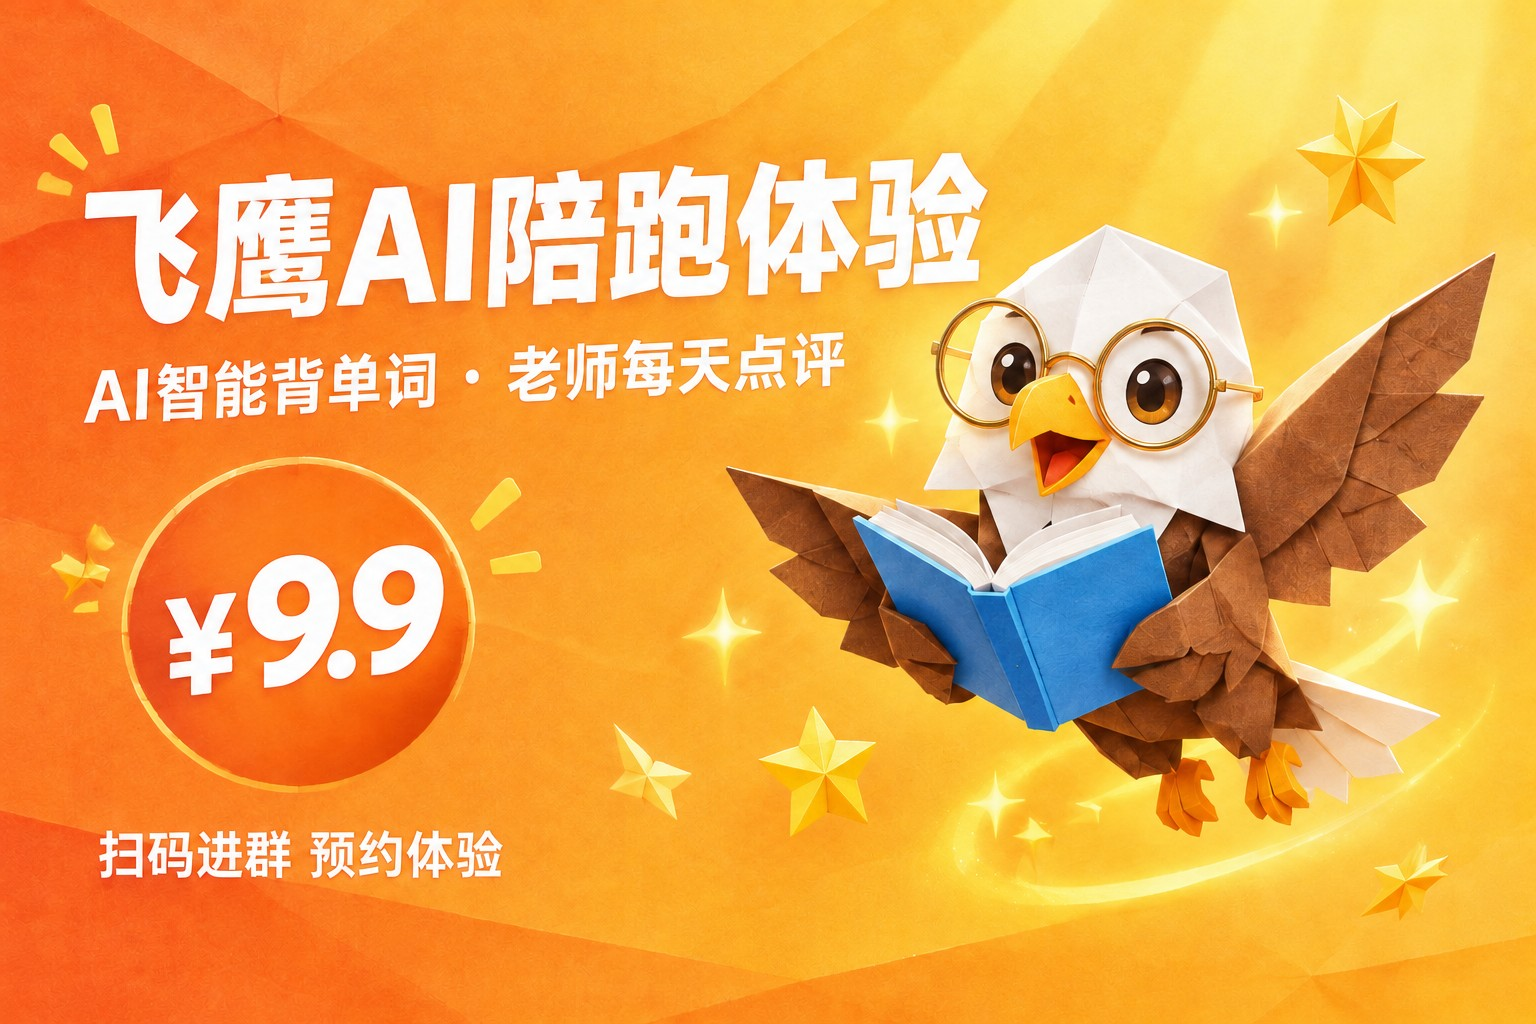
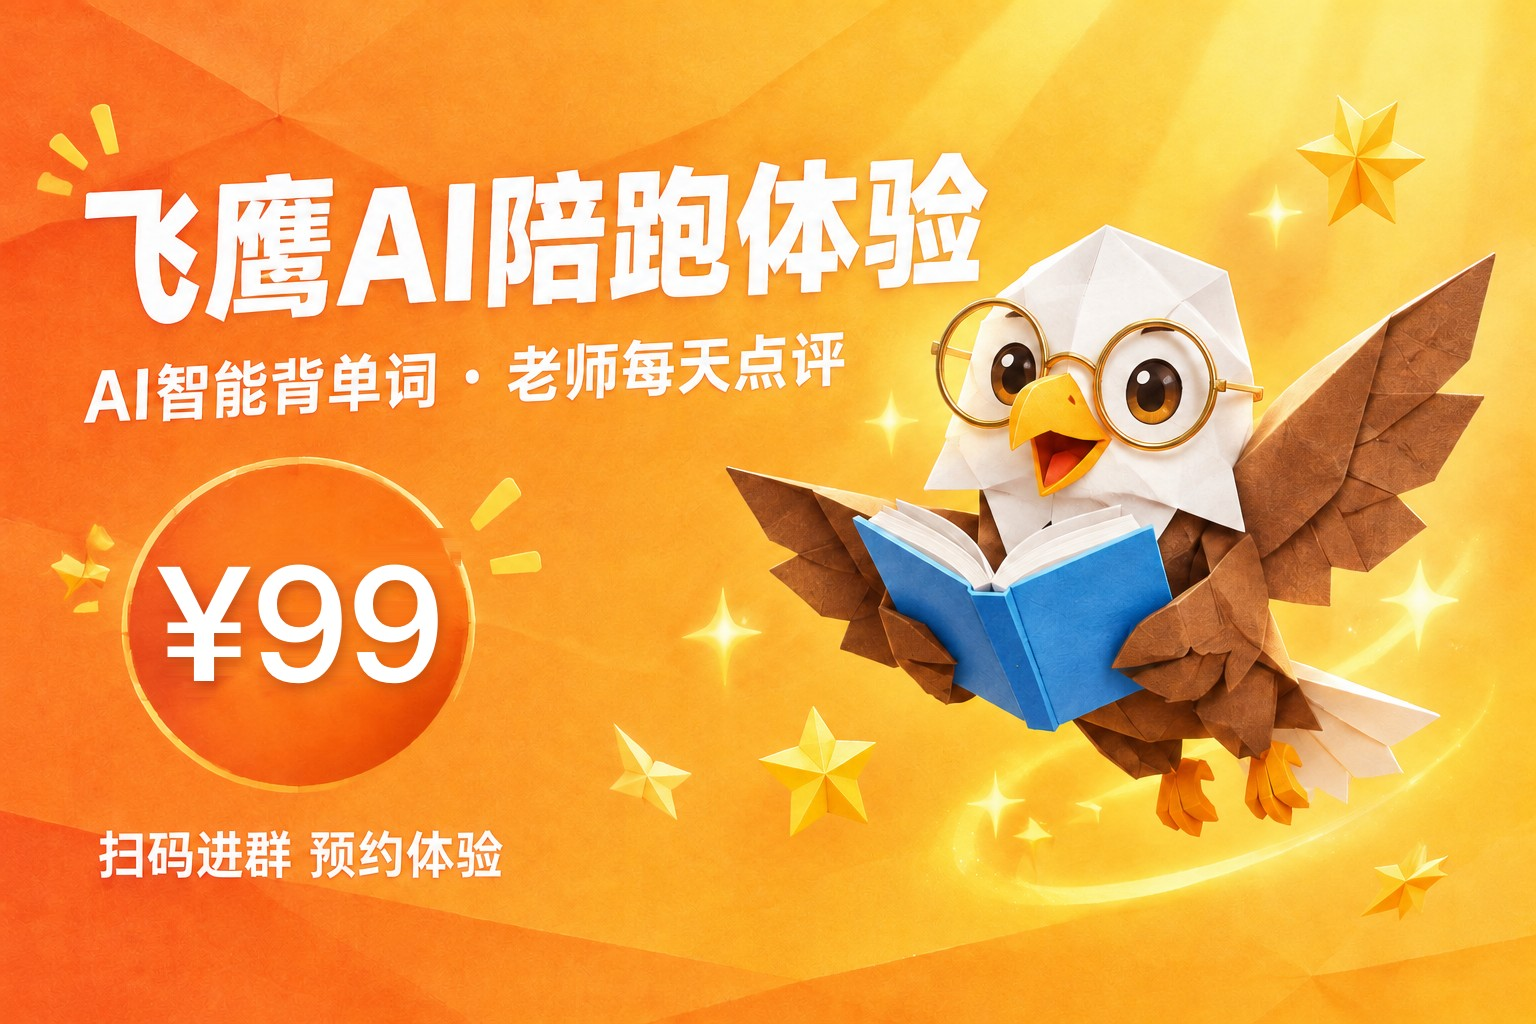
feat(地推体验卡): 卡面模板加到 36 套,按风格筛 + 编号,名字条按模板避开文字
- 新增 16 套模板(t21-t36);出图中转 503,其余 14 套等恢复后补
- 选模板弹窗按风格筛(经典/清新/学习/冒险/四季/节日国风/深色),每套带编号
- 正面名字条位置按模板定(OCR 文字框求交,t03/t32 挪到一边)
- 白框扫描逐级放宽阈值(带纸纹的白框),框内无暗点才算
- t03 卡面价格一直是 ¥9.9,改成 ¥99

Changed region(s): [[0.0938, 0.5312, 0.3125, 0.6875]]

diff --git a/frontend/src/data/promoTemplates.ts b/frontend/src/data/promoTemplates.ts
@@ -1,38 +1,63 @@
 /**
- * 体验卡卡面模板(20 套,2026-10-23)—— 图在 public/promo-card/tpl/{id}_front.jpg / _back.jpg / _thumb.jpg
+ * 体验卡卡面模板(36 套: 10-23 先出 20 套,10-24 加到 36 套)—— 图在 public/promo-card/tpl/{id}_front.jpg / _back.jpg / _thumb.jpg
  *
  * id 与后端 services/promo.TEMPLATE_IDS 同一组(tests/test_promo.py 解析本文件锁住两边一致)。
  * box = 背面底图里那个空白方框(原图 1536×1024 坐标),二维码、老师名字电话、卡号画在框里。
  * **框的位置是对每张底图逐像素扫出来的,换图必须重扫**,否则二维码会压到框外;
  * utils/promoPrint 画之前会检查框里是不是白的,不是就报错不出图。
+ * group = 选模板时的风格筛选(几十套一屏翻不完)。strip = 正面底部名字条放哪边(不写 = 居中;
+ * 居中会压到模板自己文字的那几套挪到 l / r,判据是 OCR 文字框与名字条求交)。
  */
+export const TEMPLATE_GROUPS = ['经典', '清新', '学习', '冒险', '四季', '节日国风', '深色'] as const;
+export type TemplateGroup = (typeof TEMPLATE_GROUPS)[number];
+
 export interface PromoTemplate {
   id: string;
+  /** 给人看的编号,跟印刷厂、跟销售说「用第几套」 */
+  no: number;
   name: string;
+  group: TemplateGroup;
+  strip?: 'l' | 'r';
   box: { l: number; t: number; r: number; b: number };
 }
 
 export const PROMO_TEMPLATES: PromoTemplate[] = [
-  { id: 't01', name: '耳麦陪跑', box: { l: 148, t: 156, r: 616, b: 620 } },
-  { id: 't02', name: '米白礼券', box: { l: 132, t: 144, r: 652, b: 644 } },
-  { id: 't03', name: '橙色渐变', box: { l: 160, t: 148, r: 648, b: 628 } },
-  { id: 't04', name: '天空云朵', box: { l: 172, t: 160, r: 608, b: 600 } },
-  { id: 't05', name: '草绿春天', box: { l: 144, t: 160, r: 628, b: 624 } },
-  { id: 't06', name: '阳光奖杯', box: { l: 192, t: 160, r: 672, b: 624 } },
-  { id: 't07', name: '星空夜蓝', box: { l: 184, t: 180, r: 636, b: 620 } },
-  { id: 't08', name: '珊瑚粉', box: { l: 144, t: 132, r: 644, b: 620 } },
-  { id: 't09', name: '薄荷毕业帽', box: { l: 164, t: 144, r: 640, b: 592 } },
-  { id: 't10', name: '喜庆红', box: { l: 196, t: 168, r: 652, b: 616 } },
-  { id: 't11', name: '极简白橙', box: { l: 172, t: 168, r: 652, b: 628 } },
-  { id: 't12', name: '黑金尊享', box: { l: 180, t: 144, r: 668, b: 616 } },
-  { id: 't13', name: '黑板粉笔', box: { l: 188, t: 176, r: 640, b: 628 } },
-  { id: 't14', name: '积木童趣', box: { l: 188, t: 140, r: 676, b: 616 } },
-  { id: 't15', name: '太空火箭', box: { l: 168, t: 156, r: 620, b: 604 } },
-  { id: 't16', name: '七天打卡', box: { l: 128, t: 124, r: 584, b: 576 } },
-  { id: 't17', name: '平板学习', box: { l: 116, t: 116, r: 588, b: 572 } },
-  { id: 't18', name: '秋叶暖棕', box: { l: 160, t: 120, r: 672, b: 628 } },
-  { id: 't19', name: '马卡龙', box: { l: 168, t: 156, r: 628, b: 624 } },
-  { id: 't20', name: '国潮祥云', box: { l: 176, t: 180, r: 620, b: 620 } },
+  { id: 't01', no: 1, name: '耳麦陪跑', group: '经典', box: { l: 148, t: 156, r: 616, b: 620 } },
+  { id: 't02', no: 2, name: '米白礼券', group: '经典', box: { l: 132, t: 144, r: 652, b: 644 } },
+  { id: 't03', no: 3, name: '橙色渐变', group: '经典', strip: 'r', box: { l: 160, t: 148, r: 648, b: 628 } },
+  { id: 't04', no: 4, name: '天空云朵', group: '清新', box: { l: 172, t: 160, r: 608, b: 600 } },
+  { id: 't05', no: 5, name: '草绿春天', group: '四季', box: { l: 144, t: 160, r: 628, b: 624 } },
+  { id: 't06', no: 6, name: '阳光奖杯', group: '经典', box: { l: 192, t: 160, r: 672, b: 624 } },
+  { id: 't07', no: 7, name: '星空夜蓝', group: '深色', box: { l: 184, t: 180, r: 636, b: 620 } },
+  { id: 't08', no: 8, name: '珊瑚粉', group: '清新', box: { l: 144, t: 132, r: 644, b: 620 } },
+  { id: 't09', no: 9, name: '薄荷毕业帽', group: '清新', box: { l: 164, t: 144, r: 640, b: 592 } },
+  { id: 't10', no: 10, name: '喜庆红', group: '节日国风', box: { l: 196, t: 168, r: 652, b: 616 } },
+  { id: 't11', no: 11, name: '极简白橙', group: '经典', box: { l: 172, t: 168, r: 652, b: 628 } },
+  { id: 't12', no: 12, name: '黑金尊享', group: '深色', box: { l: 180, t: 144, r: 668, b: 616 } },
+  { id: 't13', no: 13, name: '黑板粉笔', group: '学习', box: { l: 188, t: 176, r: 640, b: 628 } },
+  { id: 't14', no: 14, name: '积木童趣', group: '学习', box: { l: 188, t: 140, r: 676, b: 616 } },
+  { id: 't15', no: 15, name: '太空火箭', group: '冒险', box: { l: 168, t: 156, r: 620, b: 604 } },
+  { id: 't16', no: 16, name: '七天打卡', group: '经典', box: { l: 128, t: 124, r: 584, b: 576 } },
+  { id: 't17', no: 17, name: '平板学习', group: '学习', box: { l: 116, t: 116, r: 588, b: 572 } },
+  { id: 't18', no: 18, name: '秋叶暖棕', group: '四季', box: { l: 160, t: 120, r: 672, b: 628 } },
+  { id: 't19', no: 19, name: '马卡龙', group: '清新', box: { l: 168, t: 156, r: 628, b: 624 } },
+  { id: 't20', no: 20, name: '国潮祥云', group: '节日国风', box: { l: 176, t: 180, r: 620, b: 620 } },
+  { id: 't21', no: 21, name: '海洋', group: '冒险', box: { l: 220, t: 180, r: 652, b: 616 } },
+  { id: 't22', no: 22, name: '彩虹', group: '清新', box: { l: 204, t: 204, r: 628, b: 628 } },
+  { id: 't23', no: 23, name: '冬日雪花', group: '四季', box: { l: 192, t: 156, r: 672, b: 624 } },
+  { id: 't24', no: 24, name: '樱花', group: '四季', box: { l: 192, t: 168, r: 676, b: 640 } },
+  { id: 't25', no: 25, name: '夏日海滩', group: '四季', box: { l: 224, t: 184, r: 668, b: 612 } },
+  { id: 't26', no: 26, name: '森林露营', group: '冒险', box: { l: 176, t: 144, r: 648, b: 604 } },
+  { id: 't27', no: 27, name: '图书馆', group: '学习', box: { l: 152, t: 128, r: 696, b: 656 } },
+  { id: 't28', no: 28, name: '科学实验', group: '学习', box: { l: 232, t: 180, r: 704, b: 632 } },
+  { id: 't29', no: 29, name: '音乐', group: '经典', box: { l: 152, t: 148, r: 640, b: 620 } },
+  { id: 't30', no: 30, name: '运动会', group: '冒险', box: { l: 188, t: 168, r: 668, b: 628 } },
+  { id: 't31', no: 31, name: '美术', group: '学习', box: { l: 176, t: 132, r: 656, b: 604 } },
+  { id: 't32', no: 32, name: '超级英雄', group: '冒险', strip: 'l', box: { l: 152, t: 136, r: 656, b: 624 } },
+  { id: 't33', no: 33, name: '像素游戏', group: '冒险', box: { l: 164, t: 160, r: 656, b: 640 } },
+  { id: 't34', no: 34, name: '恐龙乐园', group: '冒险', box: { l: 236, t: 200, r: 700, b: 660 } },
+  { id: 't35', no: 35, name: '童话城堡', group: '冒险', box: { l: 152, t: 172, r: 600, b: 620 } },
+  { id: 't36', no: 36, name: '小火车', group: '冒险', box: { l: 152, t: 136, r: 628, b: 584 } },
 ];
 
 export const DEFAULT_TEMPLATE_ID = 't01';

diff --git a/frontend/src/components/promo/PromoCardPrint.tsx b/frontend/src/components/promo/PromoCardPrint.tsx
@@ -1,5 +1,5 @@
 /**
- * 一版体验卡的卡面编辑 + 印刷文件: 选模板(20 套)、改卡上印的名字和电话、预览、下载正面 / 背面
+ * 一版体验卡的卡面编辑 + 印刷文件: 选模板(几十套,按风格筛)、改卡上印的名字和电话、预览、下载正面 / 背面
  *
  * 用户 10-23:「老师可以在上面自定义加自己的号码和选不同的模版,这样就不会拿错卡片」。
  * 名字电话印两处: 正面底部一条(拿在手里一眼分得清是谁的卡)+ 背面二维码下面(家长扫不了码时能直接打电话)。
@@ -9,7 +9,7 @@
 import { useEffect, useMemo, useState } from 'react';
 import { Check, Copy, Download, LoaderCircle, X } from 'lucide-react';
 import { cardUrl, updateCardDesign, type CardDesign, type PromoChannel } from '../../api/promo';
-import { PROMO_TEMPLATES, templateImg, templateOf } from '../../data/promoTemplates';
+import { PROMO_TEMPLATES, TEMPLATE_GROUPS, templateImg, templateOf, type TemplateGroup } from '../../data/promoTemplates';
 import { downloadCanvas, drawCardBack, drawCardFront, trimmedDataUrl } from '../../utils/promoPrint';
 import { copyText } from '../../utils/copyText';
 import { toast } from '../Toast';
@@ -30,6 +30,8 @@ export default function PromoCardPrint({ channel, onClose, onSaved }: Props) {
   const url = cardUrl(channel.code);
   const [design, setDesign] = useState<CardDesign>(channel.design);
   const [saved, setSaved] = useState<CardDesign>(channel.design);
+  // 50 套一屏翻不完: 按风格筛。默认停在当前模板所在的那一组,打开就看得到选中的是哪张
+  const [group, setGroup] = useState<TemplateGroup | '全部'>(() => templateOf(channel.design.template_id).group);
   const [saving, setSaving] = useState(false);
   const [front, setFront] = useState<HTMLCanvasElement | null>(null);
   const [back, setBack] = useState<HTMLCanvasElement | null>(null);
@@ -164,15 +166,23 @@ export default function PromoCardPrint({ channel, onClose, onSaved }: Props) {
                 选模板 <span className="font-normal text-slate-500">· {templateOf(design.template_id).name}</span>
               </h3>
               <p className="mt-0.5 text-xs text-slate-500">每个销售用不同的模板,发卡时不会拿错。</p>
+              <div className="mt-2 flex flex-wrap gap-1" role="group" aria-label="按风格筛模板">
+                {(['全部', ...TEMPLATE_GROUPS] as const).map((g) => (
+                  <button key={g} type="button" onClick={() => setGroup(g)}
+                    className={`min-h-7 rounded-full px-2.5 text-xs font-semibold ${group === g ? 'bg-[#FF6B35] text-white' : 'bg-slate-100 text-slate-600 hover:bg-slate-200'}`}>
+                    {g}
+                  </button>
+                ))}
+              </div>
               <div className="mt-2 grid max-h-[340px] grid-cols-3 gap-2 overflow-y-auto pr-1" role="radiogroup" aria-label="卡面模板">
-                {PROMO_TEMPLATES.map((t) => {
+                {PROMO_TEMPLATES.filter((t) => group === '全部' || t.group === group).map((t) => {
                   const on = t.id === design.template_id;
                   return (
                     <button key={t.id} type="button" role="radio" aria-checked={on} aria-label={t.name}
                       onClick={() => setDesign((d) => ({ ...d, template_id: t.id }))}
                       className={`relative overflow-hidden rounded-lg border-2 text-left ${on ? 'border-[#FF6B35]' : 'border-transparent hover:border-slate-300'}`}>
                       <img src={templateImg(t.id, 'thumb')} alt="" loading="lazy" className="block aspect-[3/2] w-full object-cover" />
-                      <span className="block truncate bg-white px-1 py-0.5 text-[11px] text-slate-600">{t.name}</span>
+                      <span className="block truncate bg-white px-1 py-0.5 text-[11px] text-slate-600">{t.no}. {t.name}</span>
                       {on && (
                         <span className="absolute right-1 top-1 flex h-5 w-5 items-center justify-center rounded-full bg-[#FF6B35] text-white">
                           <Check className="h-3.5 w-3.5" aria-hidden />

diff --git a/frontend/src/utils/promoPrint.ts b/frontend/src/utils/promoPrint.ts
@@ -82,21 +82,24 @@ export async function drawCardFront(o: CardPrintOptions): Promise<HTMLCanvasElem
   drawCover(ctx, await loadImage(templateImg(o.templateId, 'front')));
   const line = contactLine(o.name, o.phone);
   if (line) {
-    // 底部居中一条半透明白底胶囊: 不管模板什么配色都看得清,也不跟模板自己的字抢
+    // 底部一条半透明白底胶囊: 不管模板什么配色都看得清。默认居中;个别模板居中会压到它自己底部的字
+    // (strip 字段,OCR 测出来的),挪到左 / 右下角
     const size = fitFont(ctx, line, 600, 30, 20, PRINT_W * 0.6);
     const tw = ctx.measureText(line).width;
     const padX = 22;
+    const w = tw + padX * 2;
     const h = size + 18;
-    const x = (PRINT_W - tw) / 2 - padX;
+    const side = templateOf(o.templateId).strip;
+    const x = side === 'l' ? SAFE_PX : side === 'r' ? PRINT_W - SAFE_PX - w : (PRINT_W - w) / 2;
     const y = PRINT_H - SAFE_PX - h + 6;
     ctx.fillStyle = 'rgba(255,255,255,0.88)';
     ctx.beginPath();
-    ctx.roundRect(x, y, tw + padX * 2, h, h / 2);
+    ctx.roundRect(x, y, w, h, h / 2);
     ctx.fill();
     ctx.fillStyle = '#3D2B1F';
     ctx.textAlign = 'center';
     ctx.textBaseline = 'middle';
-    ctx.fillText(line, PRINT_W / 2, y + h / 2 + 1);
+    ctx.fillText(line, x + w / 2, y + h / 2 + 1);
   }
   return c;
 }

diff --git a/frontend/src/data/whatsNew.ts b/frontend/src/data/whatsNew.ts
@@ -25,6 +25,15 @@ export interface WhatsNewEntry {
 /** 新到旧排列 */
 export const WHATS_NEW: WhatsNewEntry[] = [
   {
+    id: 'promo-card-templates-36-2026-10',
+    date: '2026-10-24',
+    title: '🎨 体验卡模板加到 36 套,能按风格筛',
+    desc: '新加 16 套卡面(海洋、彩虹、雪花、樱花、海滩、露营、图书馆、科学实验、音乐、运动会、美术、超级英雄、像素游戏、恐龙、童话城堡、小火车)。选模板时每套带编号,可按「经典 / 清新 / 学习 / 冒险 / 四季 / 节日国风 / 深色」筛选,跟销售说「用第几套」就行。',
+    where: '「地推体验卡 → 卡码」每行点「卡面与印刷」→ 右侧「选模板」',
+    roles: ['org_admin', 'admin'],
+    route: '/admin/promo',
+  },
+  {
     id: 'promo-card-templates-2026-10',
     date: '2026-10-23',
     title: '🎨 体验卡 20 套模板,卡上能印老师名字和电话',

diff --git a/frontend/src/pages/AdminPromo.tsx b/frontend/src/pages/AdminPromo.tsx
@@ -4,7 +4,7 @@
  * 五个页签: 看板(按销售看转化)/ 线索(全机构跟单)/ 销售(增删改查)/ 卡码(每个销售一版卡,选模板出印刷文件)/ 设置(体验价)。
  * 多个销售的关键设计: 一版卡 = 一个卡码挂一个销售;家长扫哪版卡,线索就归哪个销售;
  * 同一个手机号只认第一张卡(销售之间不抢单);销售离职把卡码「转交」或删除时选接手人,印出去的卡照样能用。
- * 20 套卡面模板 + 卡上印老师名字电话: 新开的卡自动分一套本机构还没用过的,不同销售的卡拿在手里分得清。
+ * 几十套卡面模板(data/promoTemplates.ts)+ 卡上印老师名字电话: 新开的卡自动分一套本机构还没用过的,不同销售的卡拿在手里分得清。
  */
 import { useCallback, useEffect, useMemo, useState } from 'react';
 import {

diff --git a/backend/app/services/promo.py b/backend/app/services/promo.py
@@ -53,9 +53,10 @@ _STAGE_COL = {"contacted": "contacted_at", "paid": "paid_at", "opened": "opened_
 OWNER_ROLES = ("sales", "org_admin", "admin")   # 能挂卡码、能有线索的账号(admin 只在自己那个机构)
 QR_STALE_DAYS = 6                     # 个人微信群码 7 天过期: 6 天没换就提醒
 STUDY_DAYS_TARGET = 5                 # 开通后 7 天里学满几天算「学满」
-# 卡面模板(2026-10-23 用户要 20 套): 图在 frontend/public/promo-card/tpl/,前端 data/promoTemplates.ts 同一组 id
+# 卡面模板(2026-10-23 用户要 20 套,10-24 要再加 30 套;出图中转 10-24 中午起整体 503,先上线 36 套,其余补齐后改这里的数字):
+# 图在 frontend/public/promo-card/tpl/,前端 data/promoTemplates.ts 同一组 id
 # (tests/test_promo.py 解析那个 .ts 锁住两边一致)。新开的卡按「本机构还没人用的」顺序分一套,不同销售的卡一眼分得开
-TEMPLATE_IDS = tuple(f"t{i:02d}" for i in range(1, 21))
+TEMPLATE_IDS = tuple(f"t{i:02d}" for i in range(1, 37))
 DEFAULT_TEMPLATE = TEMPLATE_IDS[0]
 _PHONE_PRINT_RE = re.compile(r"^[0-9+\- ]{5,20}$")   # 卡上印的电话: 数字、+、横线、空格
 
@@ -196,7 +197,7 @@ async def create_channel(db: AsyncSession, org_id: int, name: str, owner: User, 
 
 
 async def _next_template(db: AsyncSession, org_id: int) -> str:
-    """本机构在用的卡还没用过的第一套;20 套都用过了就按卡数轮"""
+    """本机构在用的卡还没用过的第一套;全都用过了就按卡数轮"""
     used = (await db.execute(
         select(PromoCardDesign.template_id)
         .join(PromoChannel, PromoChannel.id == PromoCardDesign.channel_id)

diff --git a/backend/tests/test_promo.py b/backend/tests/test_promo.py
@@ -330,7 +330,7 @@ async def test_card_design_templates_and_print_fields(client, db_session, ctx):
     # 卡码列表分页
     r = await client.get("/api/v1/promo/channels?page=1&size=1", headers=_h(ctx["oa"].id))
     assert r.json()["total"] == 2 and len(r.json()["items"]) == 1
-    assert len(TEMPLATE_IDS) == 20
+    assert len(TEMPLATE_IDS) == 36
 
 
 def test_template_ids_match_frontend():

diff --git a/CLAUDE.md b/CLAUDE.md
@@ -271,6 +271,16 @@ CORS_ORIGINS=http://localhost:3000,http://localhost:5173
 ## 项目状态
 
 **已完成(截至 2026-07)**:
+- ✅ 体验卡模板加到 36 套 + 按风格筛(2026-10-24,用户「再加 30 个模版」): 出图中转 hk.hueling.cc 10-24 11:40 起所有图片模型
+  一律 503「No available compatible accounts」(中转那边没号了,不是请求问题),30 套只出完 16 套(t21–t36)就断了,**先上线 36 套**;
+  t37–t50 的提示词在本机 /tmp/tplgen2/gen.py(已出的自动跳过),中转恢复后补齐,再把 services/promo.TEMPLATE_IDS 的 37 改成 51、
+  跑 /tmp/tplgen2 那套 OCR + 扫框 + registry.py 重写 data/promoTemplates.ts。
+  新做的: ①注册表加 no(编号)/ group(经典/清新/学习/冒险/四季/节日国风/深色)/ strip,选模板弹窗按风格筛、默认停在当前模板那一组
+  ②**正面名字条位置按模板定**: OCR 文字框与名字条求交,居中会压到模板自己底部文字的(t03 压「扫码进群 预约体验」、t32 压右下角)
+  用 strip: 'r' / 'l' 挪到一边 ③**白框扫描放宽阈值**: 有的背面白框带纸纹(t32/t33 在 240 阈值下只扫出半个框),按 240→232→225 逐级放宽,
+  同时要求框内按 promoPrint 口径无暗点 ④**t03 卡面一直印着 ¥9.9**(10-23 用 images/edits 改价没改成功,当时只核对了文字没核对价格),
+  OCR 全量复查时发现,本地把徽章里的字抹掉重写 ¥99(逐行插值补底色,不重新出图)。上线时生产唯一一版卡用的是 t01,没人印过 t03。
+  36 套逐个现画背面 BarcodeDetector 全部解出正确地址。桌面「地推99体验卡/卡面模板」有原图 + 36 套预览图。
 - ✅ 地推体验卡第二批: 销售增删改查 + 分页 + 20 套卡面模板(2026-10-23,用户「增加删除销售…增删改查都需要 分页也是…
   卡片多出几版,老师可以在上面自定义加自己的号码和选不同的模版,这样就不会拿错卡片,弄 20 个模版」):
   ①**删销售必须选接手人**: 名下有卡或线索时不带 transfer_to 回 409 TRANSFER_REQUIRED(附张数),带了就把卡码和线索一起
